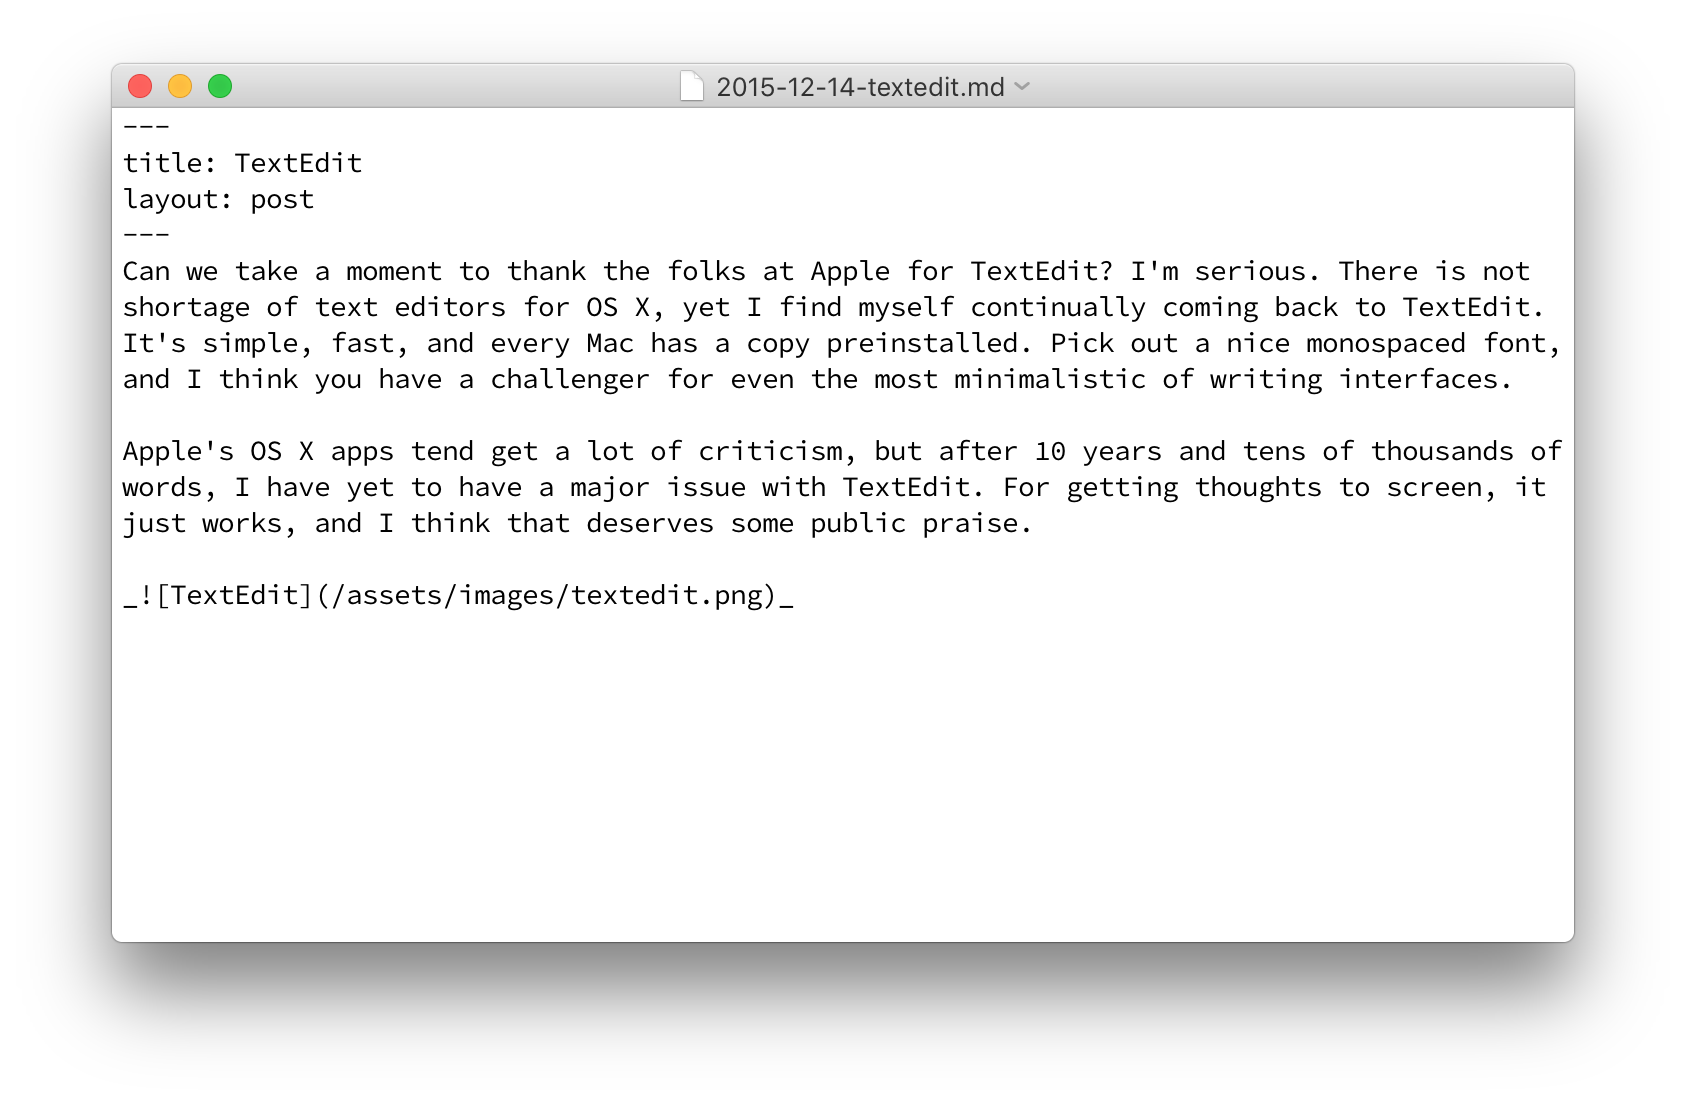
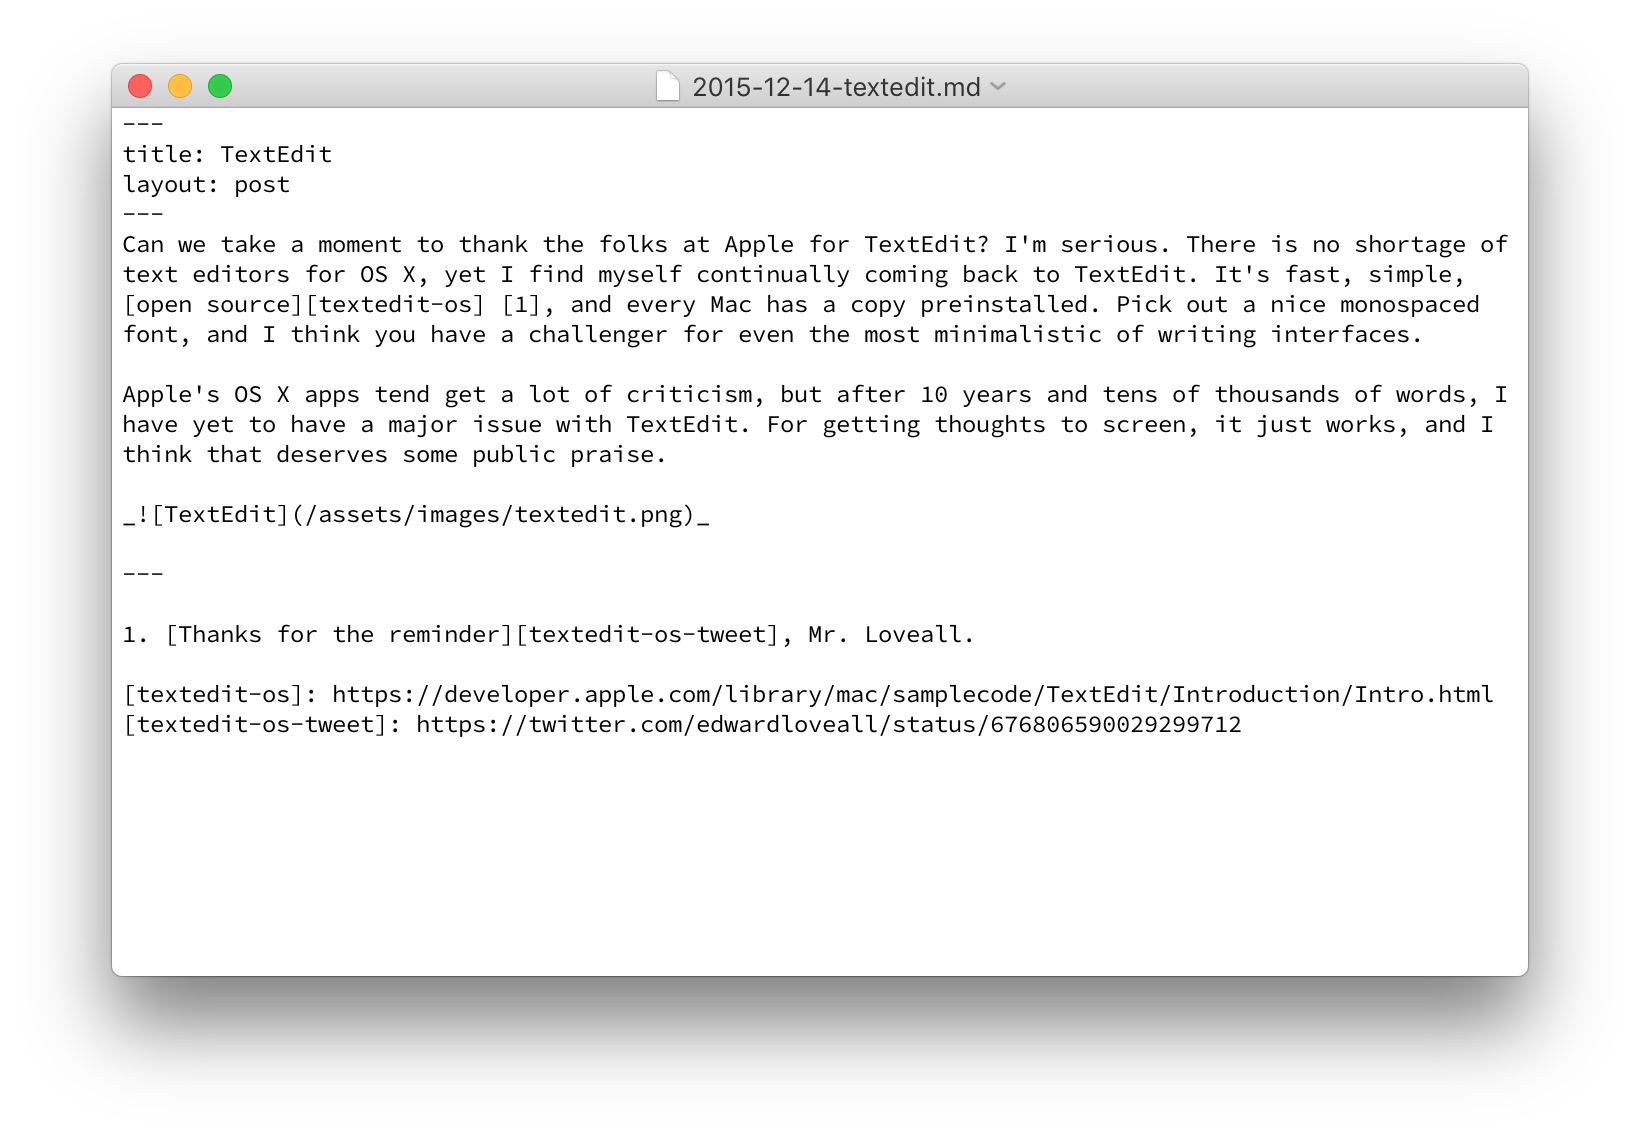
Update to TextEdit post.

diff --git a/assets/stylesheets/main.scss b/assets/stylesheets/main.scss
@@ -123,6 +123,11 @@ footer {
   a { color: #aaa; }
 }
 
+hr + ol {
+  @extend footer; 
+  li { margin-bottom: .5em; }
+}
+
 .wrapper {
   max-width: $max-width;
   margin: 5rem auto;

diff --git a/_posts/2015-12-14-textedit.md b/_posts/2015-12-14-textedit.md
@@ -2,8 +2,15 @@
 title: TextEdit
 layout: post
 ---
-Can we take a moment to thank the folks at Apple for TextEdit? I'm serious. There is not shortage of text editors for OS X, yet I find myself continually coming back to TextEdit. It's simple, fast, and every Mac has a copy preinstalled. Pick out a nice monospaced font, and I think you have a challenger for even the most minimalistic of writing interfaces.
+Can we take a moment to thank the folks at Apple for TextEdit? I'm serious. There is no shortage of text editors for OS X, yet I find myself continually coming back to TextEdit. It's fast, simple, [open source][textedit-os] [1], and every Mac has a copy preinstalled. Pick out a nice monospaced font, and I think you have a challenger for even the most minimalistic of writing interfaces.
 
 Apple's OS X apps tend get a lot of criticism, but after 10 years and tens of thousands of words, I have yet to have a major issue with TextEdit. For getting thoughts to screen, it just works, and I think that deserves some public praise. 
 
 _![TextEdit](/assets/images/textedit.png)_ 
+
+---
+
+1. [Thanks for the reminder][textedit-os-tweet], Mr. Loveall.  
+
+[textedit-os]: https://developer.apple.com/library/mac/samplecode/TextEdit/Introduction/Intro.html
+[textedit-os-tweet]: https://twitter.com/edwardloveall/status/676806590029299712
